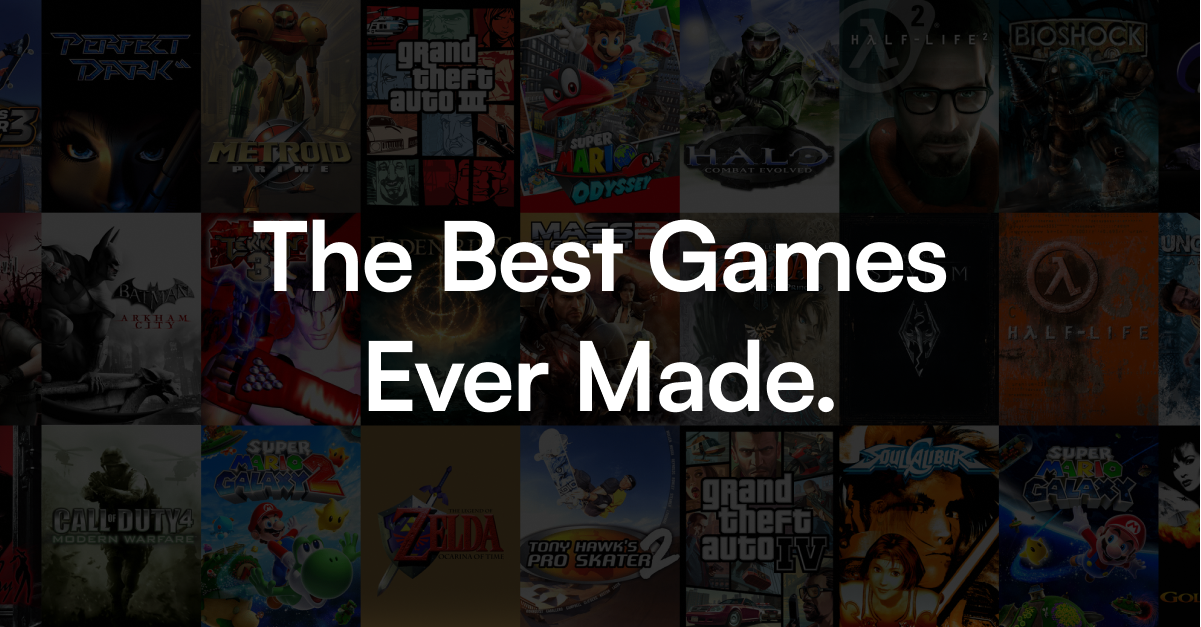
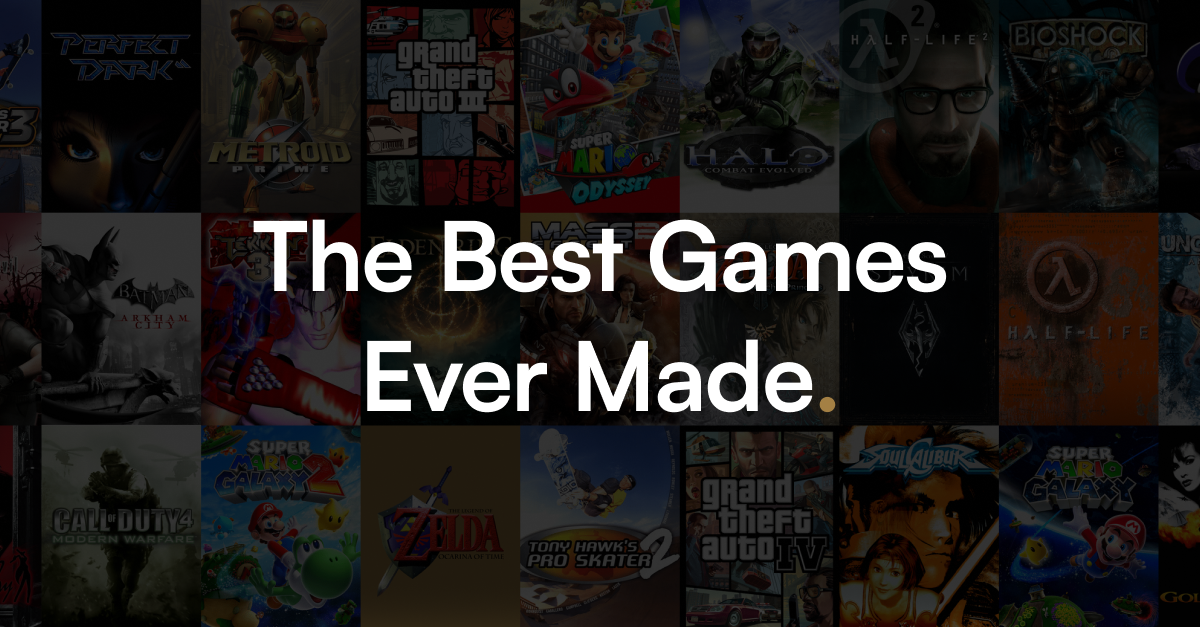
Added some styling

Changed region(s): [[0.3389, 0.5455, 0.7086, 0.6667]]

diff --git a/src/App.vue b/src/App.vue
@@ -21,18 +21,18 @@
 <template>
   <div>
     <section class="overlay" ref="overlay">
-      <h1>This storytelling project is best experienced:</h1>
+      <h1>This storytelling project is best experienced<span>:</span></h1>
       <ul>
-        <li>On a mid/large screen. (laptop/computer)</li>
+        <li>On a mid/large screen. (laptop/computer).</li>
         <li>In a modern browser such as Chrome/Firefox.</li>
         <li>While wearing headphones or sound on.</li>
-        <li>In fullscreen mode (press F11 on keyboard)</li>
+        <li>In fullscreen mode (press F11 on keyboard).</li>
       </ul>
       <p>All set?</p>
       <audio ref="fade">
         <source src="/audio/fade.mp3" type="audio/mpeg">
       </audio>
-      <button @click="hideOverlay">I'm ready</button>
+      <button @click="hideOverlay">Dive Into History</button>
     </section>
     <noscript>
       please enable your javascript
@@ -41,7 +41,7 @@
     <main>
       <header>
         <div class="container">
-          <h1>Top {{games.length}} Games according to Metacritic.com</h1>
+          <h1>The Best Games Ever Made<span>.</span></h1>
           <p><a href="https://www.metacritic.com/browse/games/score/metascore/all/all/filtered" target="_blank">metacritic.com</a> & <a href="https://www.vgchartz.com/">vgchartz.com</a></p>
         </div>
       </header>

diff --git a/src/styles/layout/_header.scss b/src/styles/layout/_header.scss
@@ -8,9 +8,13 @@ header {
   justify-content: center;
 
   h1 {
-    font-size: $text-4xl;
-    width: 80%;
+    font-size: $text-5xl;
+    width: 500px;
     margin: 0 auto $space-lg;
+  }
+
+  h1 span {
+    color: $gold;
   }
 
   a {

diff --git a/src/styles/layout/_overlay.scss b/src/styles/layout/_overlay.scss
@@ -26,8 +26,13 @@
     text-align: center;
   }
 
-  ul {
-    list-style-type: disc;
+  h1 span {
+    color: $gold;
+  }
+
+  li::before {
+    content: '• ';
+    color: $gold;
   }
 
   p {

diff --git a/src/styles/variables/_colors.scss b/src/styles/variables/_colors.scss
@@ -1,5 +1,6 @@
 $black: #000;
 $white: #fff;
 
+$gold: #A48044;
 $white-off: #cdcdcd;
 $green: #16a085;

diff --git a/todo.md b/todo.md
@@ -2,15 +2,14 @@
 
 ## Project
 
-+ Add the sims 1 & rollercoaster tycoon to project?
-+ Add favicon
-+ Add og-image
++ Add the sims 1 & rollercoaster tycoon, Super mario 64 to project & Need for speed undeground 2? left 4 dead 2?
+- Remove Persona 5 Royal, god of war & thps4? & metal gear solid V?
+
 + Add scroll effect
 + Add transition elements on enter scroll
-+ New title project
 + add multiple consoles/platforms in json?
-+ add images of consoles
-+ Add end section after 50 games
++ add images of consoles?
++ Add final end section after 50 games
 
 ## Video
 
